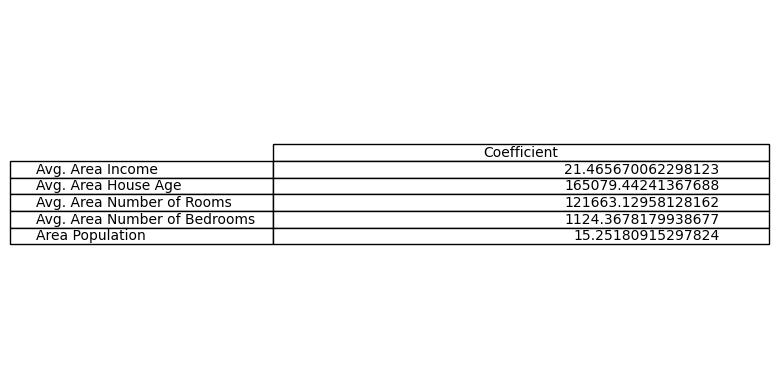
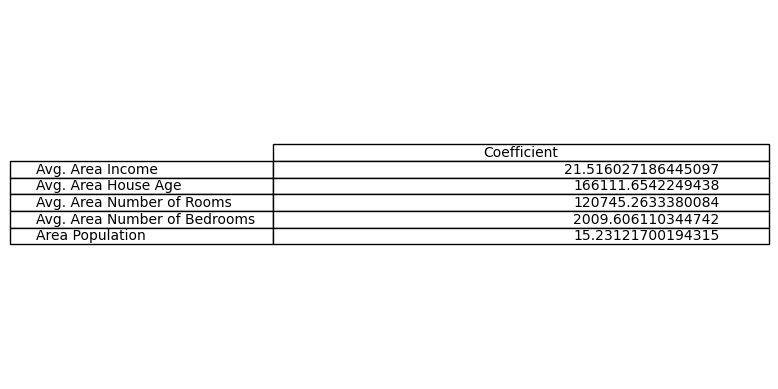
all images

Changed region(s): [[0.7095, 0.401, 0.9254, 0.617]]

diff --git a/Final_codes_needed/templates/results.html b/Final_codes_needed/templates/results.html
@@ -19,14 +19,31 @@
       <hr/>
 
       <p class="card-text"><div class="alert alert-danger" role="alert">
+        
+        <h2>Statistical Values for the model</h2>
+        <p>Accuracy of the model: {{accuracy}}</p>
         <p>Mean Absolute Error: {{mae}}</p>
         <p>Mean Squared Error : {{mse}}</p>
         <p>Root Mean Squared Error: {{rmse}}</p>
-        <img src={{weightsimg}} alt="">
-
-         <img src={{plot}} alt="">
-         <img src="{{tree}}" alt="">
-    {{ accuracy }}
+        <br>
+        <h2>Dataset analysis</h2>
+        <p>Weights Table</p>
+        <img src={{weightsimg}} alt="weights table">
+        <p>Pair Plots</p>
+        <img src={{pairplot}} alt="pair plot">
+        <p>Area Plot</p>
+        <img src={{areaplot}} alt="area plot">
+        <p>Histogram</p>
+        <img src={{histogram}} alt="histogram">
+        <p>Line Plot</p>
+        <img src={{lineplot}} alt="Lineplot">
+        <br>
+        <h2>Results of Linear Regression</h2>
+        <p>Regression Plot</p>
+         <img src={{reg_plot}} alt="regression plot">
+         <p>Line Plot</p>
+         <img src={{lineplot_result}} alt="">
+         <!--<img src="{{tree}}" alt="">-->
   </div></p>
   {% endblock %}
 

diff --git a/Final_codes_needed/main2.py b/Final_codes_needed/main2.py
@@ -3,7 +3,7 @@ import os
 from werkzeug.utils import secure_filename
 from flask_bootstrap import Bootstrap 
 import pathlib
-from sklearn import tree
+
 
 app = Flask(__name__)  
 Bootstrap(app)
@@ -19,6 +19,7 @@ def mlcode(dataset):
     import numpy as np
     import matplotlib.pyplot as plt
     import seaborn as sns
+    from sklearn import tree
     from sklearn.linear_model import LinearRegression
     plt.figure(figsize=(20,20))
     db=pd.read_csv('datasets/'+dataset)
@@ -74,15 +75,15 @@ def mlcode(dataset):
 
     #Decision tree classifier
     from sklearn.tree import DecisionTreeClassifier
-    clf = DecisionTreeClassifier(max_depth=3)
+    #clf = DecisionTreeClassifier(max_depth=3)
 
 # Train Decision Tree Classifer
-    clf = clf.fit(x_train,y_train)
+    #clf = clf.fit(x_train,y_train)
 
 #Predict the response for test dataset
-    y_pred = clf.predict(x_test)
-    tree.plot_tree(clf.fit(x, y))
-    plt.savefig('tree')
+    #y_pred = clf.predict(x_test)
+    #tree.plot_tree(clf.fit(x, y))
+    #plt.savefig('tree')
     os.chdir(parent_file)
 
 
@@ -105,11 +106,18 @@ def detect():
                 # create the folders when setting up your app
                 path = os.path.join(pathlib.Path().absolute(), 'datasets', filename)
                 file.save(path)
-                weightsimg='/static/'+filename+'/mytable.png'
                 accuracy,mae,mse,rmse=mlcode(filename)
-                pathtoplt='/static/'+filename+'/regression_plot_result.png'
-                tree='/static/'+filename+'/tree.png'
-                return render_template('results.html',tree=tree,accuracy=accuracy,plot=pathtoplt,weightsimg=weightsimg,mae=mae,mse=mse,rmse=rmse)
+                #data analysis
+                pairplot='/static/'+filename+'/pair_plot_dataset.png'
+                areaplot='/static/'+filename+'/area_plot_dataset.png'
+                histogram='/static/'+filename+'/histogram_dataset.png'
+                lineplot='/static/'+filename+'/line_plot_dataset.png'
+                weightsimg='/static/'+filename+'/mytable.png'
+                #results
+                reg_plot='/static/'+filename+'/regression_plot_result.png'
+                lineplot_result='/static/'+filename+'/lineplot_result.png'
+               # tree='/static/'+filename+'/tree.png'
+                return render_template('results.html',accuracy=accuracy,lineplot=lineplot,histogram=histogram,pairplot=pairplot,areaplot=areaplot,lineplot_result=lineplot_result,reg_plot=reg_plot,weightsimg=weightsimg,mae=mae,mse=mse,rmse=rmse)
                 # return jsonify({"path":pathtoplt}),200
 
     
